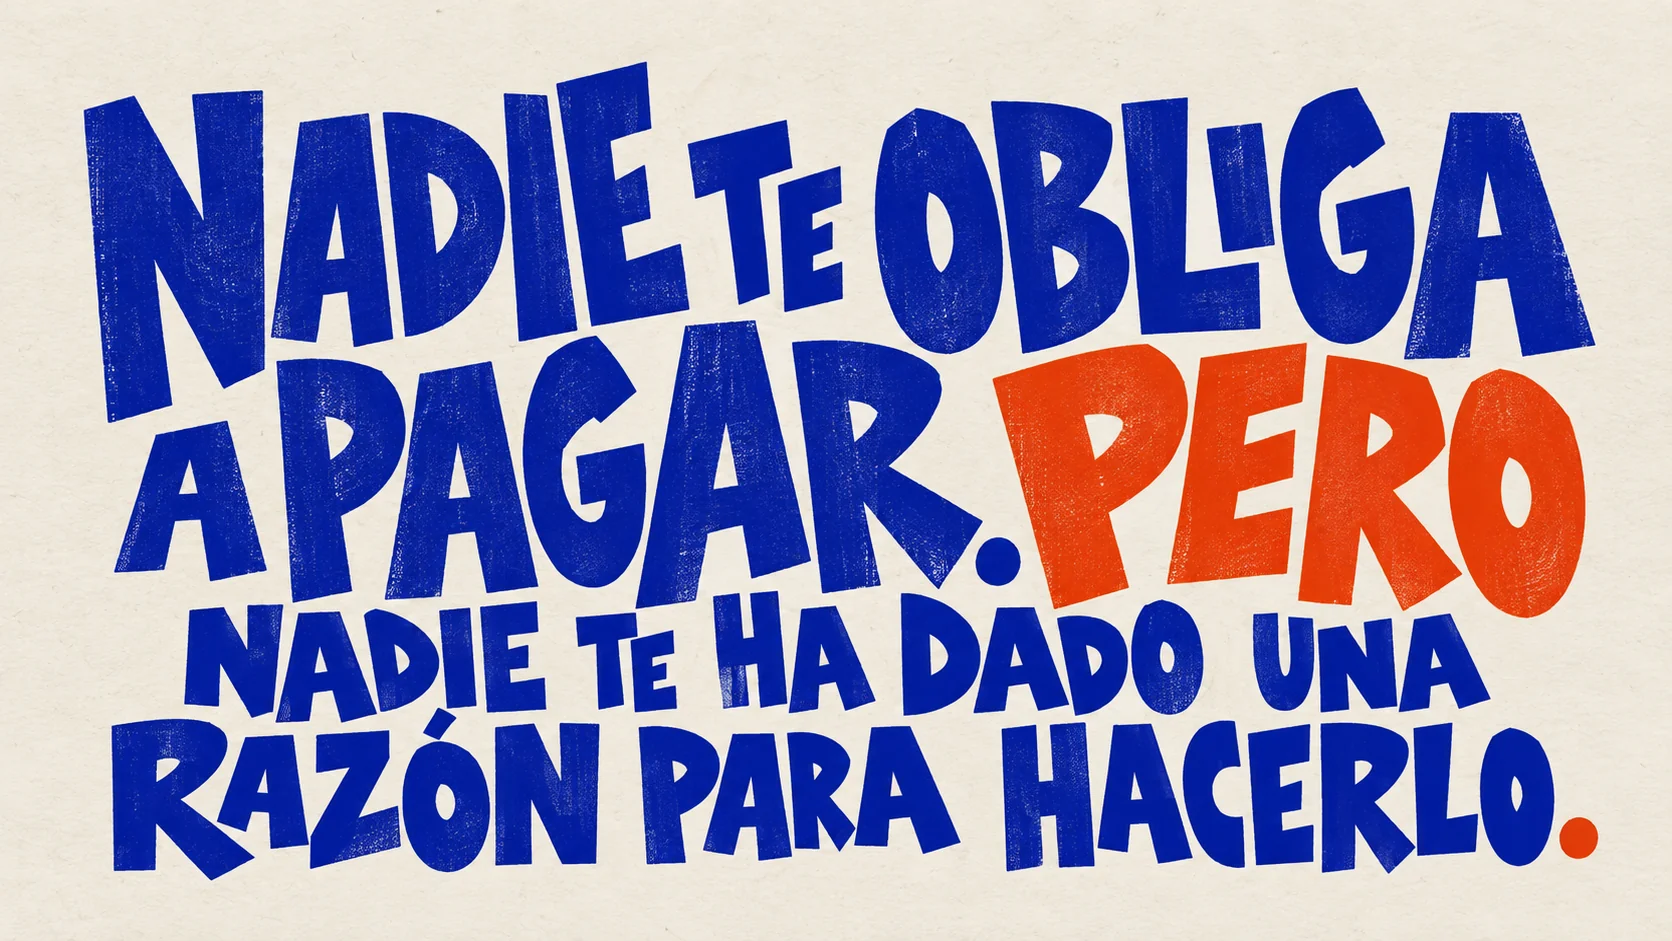
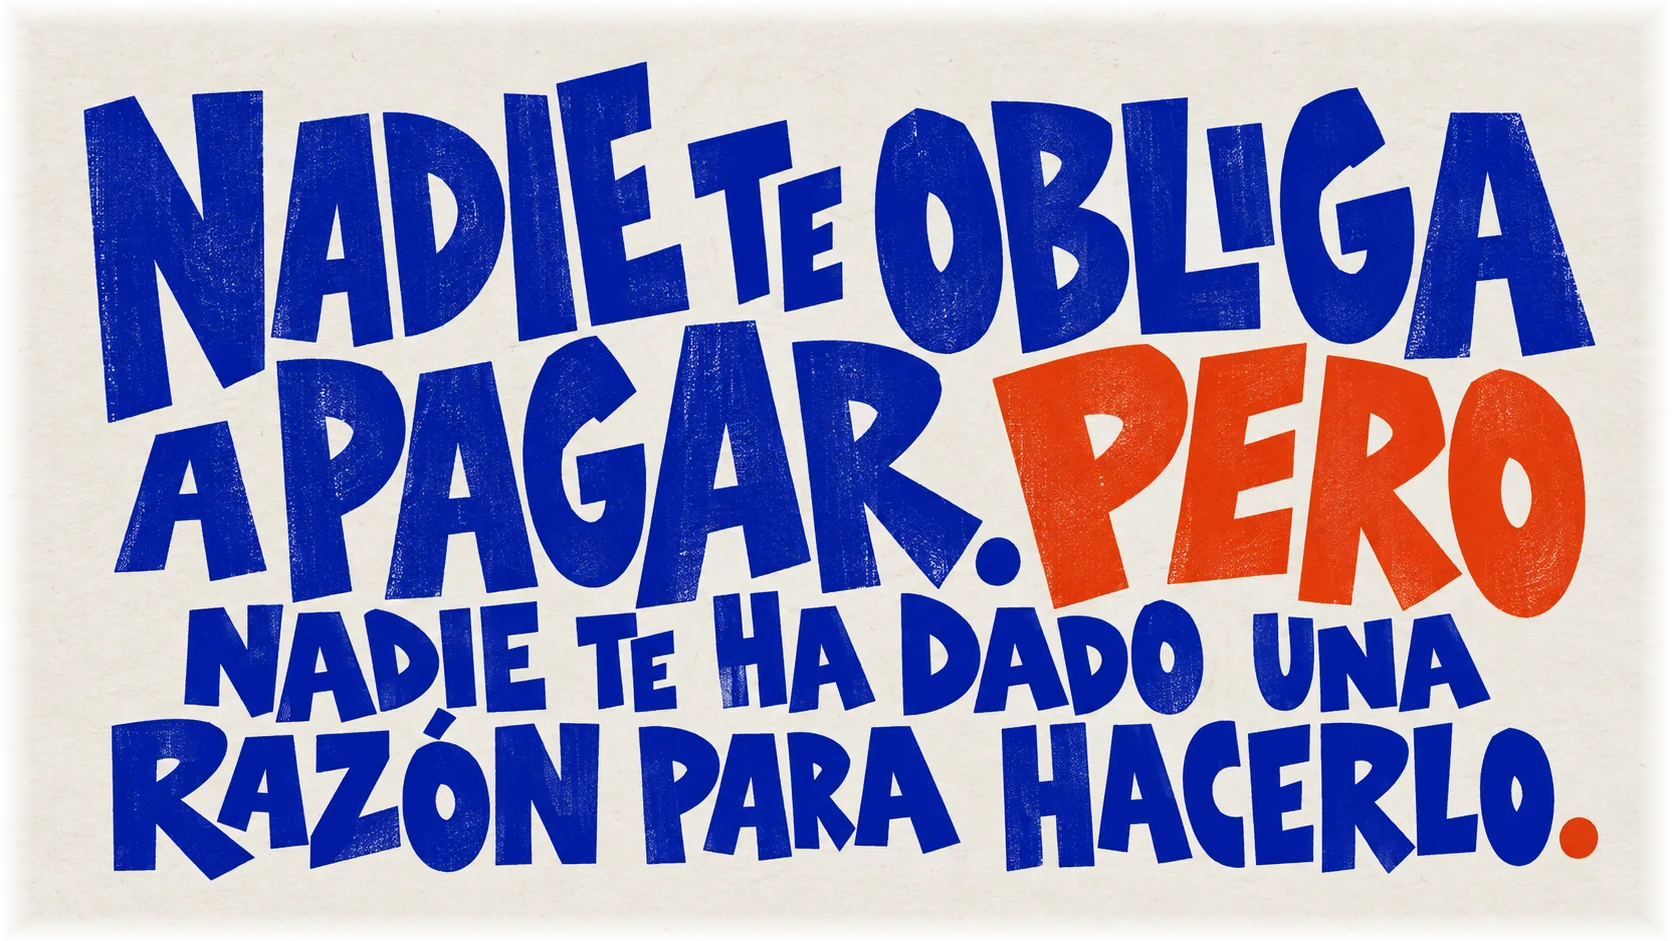
Arreglar dos fallas visibles en Safari
1. Fondos que no coincidían. El retrato del hero y la frase «Nadie te obliga
   a pagar» se integraban al fondo con mix-blend-mode:multiply, y la frase
   además difuminaba sus bordes con mask-composite:intersect. Safari no aplica
   ninguno de los dos, así que ambas imágenes se veían como rectángulos de otro
   tono. Ahora la corrección va en los archivos: el papel se desplazó al mismo
   #EAE5DC de la página y los bordes de la frase se desvanecen a transparente.
   El CSS ya no depende de blend ni de mask.

2. Flechas que salían como emoji. ↗ ↘ ↙ ✳ tienen variante emoji en Unicode e
   iOS las pintaba a color. Llevan &#xFE0E; detrás para forzar el glifo plano.

Changed region(s): [[0.0, 0.0, 1.0, 1.0]]

diff --git a/site/index.html b/site/index.html
@@ -24,8 +24,8 @@
   <meta property="og:image:alt" content="Retrato de Sebastián Vélez Taylor junto al lema QUE LA PLATA SE VEA">
   <meta name="twitter:card" content="summary_large_image">
 
-  <link rel="stylesheet" href="styles.css?v=17">
-  <link rel="stylesheet" href="art-direction.css?v=19">
+  <link rel="stylesheet" href="styles.css?v=18">
+  <link rel="stylesheet" href="art-direction.css?v=20">
   <link rel="stylesheet" href="proposals.css?v=22">
   <link rel="stylesheet" href="feedback.css?v=24">
   <script src="scroll.js?v=14" defer></script>
@@ -64,7 +64,7 @@
       <h2 id="about-title" class="sr-only">Sebastián Vélez Taylor</h2>
       <div class="story-panels" id="historias" aria-label="Mis historias en Canadá, el deporte y la tecnología">
         <article class="story-poster story-canada" aria-labelledby="canada-title">
-          <div class="poster-topline"><span>HISTORIA 01 / CANADÁ</span><span>CALI ↗ WINNIPEG</span></div>
+          <div class="poster-topline"><span>HISTORIA 01 / CANADÁ</span><span>CALI ↗&#xFE0E; WINNIPEG</span></div>
           <div class="story-panel">
             <div class="panel-copy">
               <h3 id="canada-title" class="art-title"><span class="sr-only">Llegué solo. Volví con historias.</span><img src="assets/titulo-canada-v11.webp" alt="" width="1536" height="1024" loading="lazy" decoding="async"></h3>
@@ -79,7 +79,7 @@
               <span class="dot-patch" aria-hidden="true"></span>
               <figure class="photo-piece canada-snow"><img src="assets/winnipeg.webp" alt="Sebastián en una calle nevada durante su intercambio en Winnipeg." width="1200" height="1600" loading="lazy" decoding="async"></figure>
               <figure class="photo-piece canada-friends"><div class="group-crop"><img src="assets/amigos-winnipeg.webp" alt="Foto con amigos en Winnipeg, recortada hasta el joven de camiseta negra, incluido." width="1600" height="1200" loading="lazy" decoding="async"></div></figure>
-              <span class="ink-star" aria-hidden="true">✳</span>
+              <span class="ink-star" aria-hidden="true">✳&#xFE0E;</span>
               <span class="canada-orbit" aria-hidden="true"></span>
             </div>
           </div>
@@ -94,7 +94,7 @@
                 <p>Volví a Cali, empecé a competir y conseguí dos podios de tercer lugar.</p>
                 <p>Después me fracturé el tobillo haciendo kitesurf. Ahora estoy nadando y tengo otra meta en la cabeza: hacer un Ironman.</p>
               </div>
-              <p class="next-goal"><span>PRÓXIMA META</span>IRONMAN <span aria-hidden="true">↗</span></p>
+              <p class="next-goal"><span>PRÓXIMA META</span>IRONMAN <span aria-hidden="true">↗&#xFE0E;</span></p>
             </div>
             <div class="panel-art sport-art">
               <span class="sport-orbit" aria-hidden="true"></span>
@@ -123,7 +123,7 @@
               <figure class="photo-piece project-photo"><img src="assets/proyecto.webp" alt="Sebastián explicando un proyecto frente a una pizarra; fotografía de su archivo personal." width="1200" height="1600" loading="lazy" decoding="async"></figure>
               <figure class="company-logo"><img src="assets/accion-raiz-logo.webp" alt="Logo de Acción Raíz" width="200" height="200" loading="lazy" decoding="async"></figure>
               <div class="months-stamp"><strong>07</strong><span>MESES<br>EN USO</span></div>
-              <span class="tech-arrow" aria-hidden="true">↗</span>
+              <span class="tech-arrow" aria-hidden="true">↗&#xFE0E;</span>
               <span class="ink-bars" aria-hidden="true"></span>
             </div>
           </div>
@@ -134,7 +134,7 @@
       <header class="proposals-head">
         <div class="proposals-topline"><span>QUE LA PLATA SE VEA</span><span>06 PROPUESTAS / UN PLAN</span></div>
         <h2 id="proposals-title" class="proposal-head-art"><span class="sr-only">Ahora sí. Las propuestas.</span><img src="assets/proposals/titulo-principal.webp" alt="" width="1536" height="1024" loading="lazy" decoding="async"></h2>
-        <div class="proposals-lead"><p>Que las ideas de tu salón tengan un plan. Y que puedas <span class="ink-underline">ver cómo van, de principio a fin.</span></p><span aria-hidden="true">↙</span></div>
+        <div class="proposals-lead"><p>Que las ideas de tu salón tengan un plan. Y que puedas <span class="ink-underline">ver cómo van, de principio a fin.</span></p><span aria-hidden="true">↙&#xFE0E;</span></div>
       </header>
       <div class="proposal-grid">
         <article class="proposal proposal-board" aria-labelledby="proposal-01">
@@ -193,17 +193,17 @@
       <div class="feedback-intro">
         <h2 id="feedback-title">Tu idea<br><span>también</span><br><em>cuenta.</em></h2>
         <p>¿Qué cambiarías en el colegio?<br>¿Qué te gustaría que revisáramos?<br>Este espacio es para eso.</p>
-        <span class="feedback-arrow" aria-hidden="true">↘</span>
+        <span class="feedback-arrow" aria-hidden="true">↘&#xFE0E;</span>
       </div>
       <form class="feedback-form" id="feedback-form" aria-describedby="feedback-status">
         <div class="feedback-field"><label for="feedback-name">01 / Nombre</label><input id="feedback-name" name="name" type="text" autocomplete="name" placeholder="¿Cómo te llamas?" maxlength="100" required></div>
         <div class="feedback-field"><label for="feedback-year">02 / Año</label><select id="feedback-year" name="year" required><option value="" disabled selected>Selecciona tu año</option><option value="4">Cuarto</option><option value="5">Quinto</option><option value="6">Sexto</option><option value="7">Séptimo</option><option value="8">Octavo</option><option value="9">Noveno</option><option value="10">Décimo</option><option value="11">Once</option><option value="12">Doce</option></select></div>
         <div class="feedback-field feedback-message"><label for="feedback-message">03 / Propuesta o inquietud</label><textarea id="feedback-message" name="message" rows="5" placeholder="Tengo una idea… / Quiero saber…" maxlength="2000" required></textarea><span class="feedback-count" aria-hidden="true"><span id="feedback-count">0</span> / 2000</span></div>
-        <button class="feedback-submit" type="submit" disabled>Enviar mi idea <span aria-hidden="true">↗</span></button>
+        <button class="feedback-submit" type="submit" disabled>Enviar mi idea <span aria-hidden="true">↗&#xFE0E;</span></button>
         <p id="feedback-status" class="feedback-status" role="status">Este buzón todavía no recibe mensajes. Pronto podrás dejar tu idea aquí.</p>
       </form>
     </section>
-    <footer class="proposals-footer"><p>QUE LA PLATA<br><strong>SE VEA.</strong></p><a class="replay" href="#inicio">Volver al inicio <span aria-hidden="true">↗</span></a></footer>
+    <footer class="proposals-footer"><p>QUE LA PLATA<br><strong>SE VEA.</strong></p><a class="replay" href="#inicio">Volver al inicio <span aria-hidden="true">↗&#xFE0E;</span></a></footer>
   </main>
 </body>
 </html>

diff --git a/site/styles.css b/site/styles.css
@@ -8,9 +8,9 @@
 .masthead{position:absolute;inset:26px 4.5vw auto;display:flex;justify-content:space-between;gap:20px;font:600 11px/1.4 monospace;letter-spacing:.11em;z-index:2}
 .poster{position:relative;width:min(94vw,calc((100svh - 150px)*1.777));aspect-ratio:1672/941;flex:none}
 .fallback{display:block;width:100%;height:auto}.pieces{display:none;position:absolute;inset:0}.is-ready .pieces{display:block}.is-ready .fallback{visibility:hidden}
-.sprite{position:absolute;overflow:hidden;transform-origin:center;will-change:transform,opacity;filter:brightness(1.13) contrast(1.05);mix-blend-mode:multiply}
+.sprite{position:absolute;overflow:hidden;transform-origin:center;will-change:transform,opacity}
 .sprite img{display:block;position:absolute;max-width:none;height:auto;pointer-events:none;user-select:none}
-.sprite.phrase{overflow:visible;filter:none;mix-blend-mode:normal}
+.sprite.phrase{overflow:visible}
 .scroll-cue{position:absolute;bottom:26px;left:4.5vw;right:4.5vw;display:flex;justify-content:space-between;align-items:center;font:600 11px/1.4 monospace;letter-spacing:.13em;will-change:opacity}.scroll-cue span:last-child{font:400 28px/1 Arial}
 .scene-meter{position:absolute;bottom:0;left:0;width:100%;height:3px;z-index:5;transform-origin:left}.scene-meter span{display:block;height:100%;background:var(--orange);transform:scaleX(0);transform-origin:left}
 .wipe{position:absolute;inset:0;background:var(--blue);clip-path:circle(0% at 70% 70%);pointer-events:none;z-index:3;will-change:clip-path}
@@ -28,7 +28,7 @@
 .about-intro{max-width:390px;margin:52px 0 0;font-size:clamp(19px,1.6vw,25px);line-height:1.45;letter-spacing:-.025em}
 .about-intro strong{font-weight:800}
 .about-portrait{position:relative;margin:0 0 0 -4vw;align-self:end;min-width:0}
-.about-portrait>img{position:relative;display:block;width:100%;height:auto;max-height:700px;object-fit:contain;mix-blend-mode:multiply;z-index:1;transform:rotate(4deg)}
+.about-portrait>img{position:relative;display:block;width:100%;height:auto;max-height:700px;object-fit:contain;z-index:1;transform:rotate(4deg)}
 .portrait-sun{position:absolute;top:-2%;right:-8%;color:var(--orange);font:400 clamp(150px,20vw,320px)/1 Georgia,serif;transform:rotate(12deg)}
 .about-portrait figcaption{position:absolute;right:0;bottom:4%;z-index:2;transform:rotate(-6deg);padding:12px 17px;background:var(--orange);color:var(--paper);font:900 clamp(14px,1.45vw,22px)/1.05 Arial,sans-serif;letter-spacing:-.035em}
 .about-portrait figcaption span{position:absolute;right:12px;top:-42px;color:var(--orange);font-size:46px}

diff --git a/site/art-direction.css b/site/art-direction.css
@@ -1,7 +1,7 @@
 /* Paleta elegida: azul, naranja, amarillo, morado y blanco. */
 :root{--paper:#eae5dc;--white:#FAFAF2;--blue:#0B2F77;--orange:#FF6A00;--ink:#0B2F77;--purple:#4A0090;--yellow:#FFC400}
 .statement-section{isolation:isolate;background:var(--paper)}
-.statement-art{mix-blend-mode:multiply;filter:brightness(1.1) contrast(1.08);mask-image:linear-gradient(to right,transparent,#000 2%,#000 98%,transparent),linear-gradient(to bottom,transparent,#000 3%,#000 97%,transparent);mask-composite:intersect}
+.statement-art{display:block}
 .about-section{padding-top:0}
 .story-scroll-enabled{isolation:isolate;position:relative}
 .story-scroll-enabled .story-poster{position:sticky;top:var(--story-top,0px);z-index:var(--story-layer,1);min-height:100svh}

diff --git a/CLAUDE.md b/CLAUDE.md
@@ -132,6 +132,14 @@ y `canonical` en `index.html`, que hoy apuntan a la URL de GitHub Pages.
   Sebastián. Si vuelve a mandar una versión nueva, mandan esos PDF: han
   cambiado de una versión a otra (por ejemplo, en la 04 pasó de «reúno los
   pedidos y los entrego» a «consigo el precio, no compro»).
+- **Nada visual puede depender de `mix-blend-mode` ni de `mask-composite`.**
+  Safari no los aplica aquí, y el sitio se veía con rectángulos de otro tono
+  alrededor del retrato del hero y de la frase «Nadie te obliga a pagar».
+  La regla ahora es: si una imagen tiene que integrarse al fondo, su papel se
+  corrige **en el archivo** (tono igual a `--paper` y bordes que se desvanecen
+  a transparente), no con CSS.
+- Los símbolos `↗ ↘ ↙ ✳` llevan `&#xFE0E;` detrás. Sin eso, iOS los pinta como
+  emoji a color. Si se agrega otra flecha de ese rango, ponerle el mismo sufijo.
 - El video de la propuesta 01 va **sin controles**, en bucle y sin sonido: es
   decoración, no un reproductor. Con `prefers-reduced-motion` se queda quieto en
   su póster (`proposals-motion.js`, al final). No devolverle el atributo
